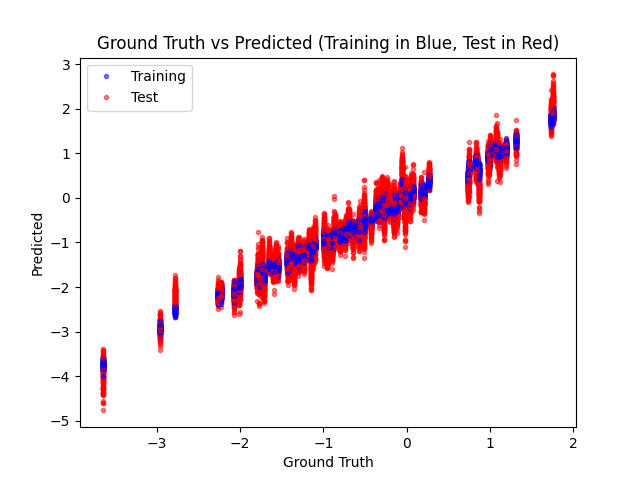
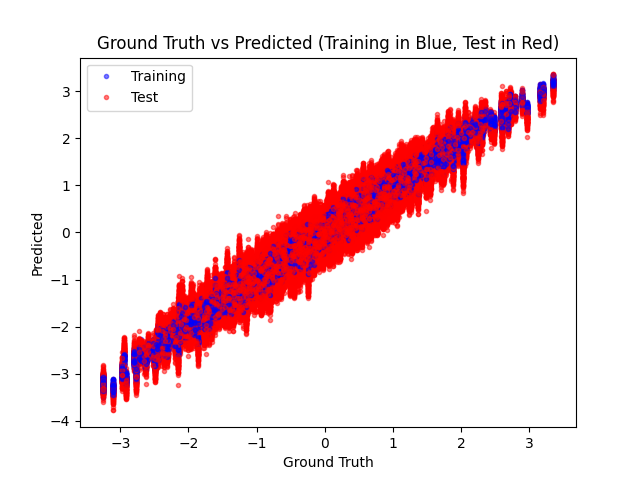
problem 1

diff --git a/temp.py b/temp.py
@@ -1,0 +1,43 @@
+import numpy as np
+import pandas as pd
+import matplotlib.pyplot as plt
+from sklearn.linear_model import Ridge
+def ridge(x, y, xT, yT, a):
+    ridge_model = Ridge(alpha=a, fit_intercept=False)  
+    ridge_model.fit(x, y)
+    y_pred = ridge_model.predict(xT)
+    
+    # Calculate RSS 
+    rss_test = np.sum((yT - y_pred) ** 2)
+    
+    # Calculate TSS 
+    tss_test = np.sum((yT - np.mean(yT)) ** 2)
+    
+    # Calculate R^2
+    r2_test = 1 - rss_test / tss_test
+    return r2_test
+    
+    
+# Load data from CSV files
+x = pd.read_csv('p1/x1.csv').values  # Ensure this is a NumPy array
+y = pd.read_csv('p1/y1.csv').values
+x_test = pd.read_csv('p1/x2.csv').values
+y_test = pd.read_csv('p1/y2.csv').values
+
+
+alpha_values = np.logspace(-3, 3, 100)
+R2List = []
+for alpha in alpha_values:
+    r2_value = ridge(x, y, x_test, y_test, alpha)
+    R2List.append(round(r2_value, 4))  #
+
+print("Alpha values:", alpha_values)
+print("R^2 values:", R2List)
+
+plt.figure(figsize=(10, 6))
+plt.plot(alpha_values, R2List, marker='o', linestyle='-', color='b')
+plt.xscale('log')  
+plt.xlabel("Alpha (Regularization Strength)")
+plt.ylabel("R^2 Score on Test Data")
+plt.title("R^2 Score vs Alpha in Ridge Regression")
+plt.savefig('ridge.png')

diff --git a/ridge.py b/ridge.py
@@ -2,7 +2,7 @@ import numpy as np
 import pandas as pd
 import matplotlib.pyplot as plt
 from sklearn.linear_model import Ridge
-
+def ridge()
 # Load data from CSV files
 x = pd.read_csv('p1/x1.csv').values  # Ensure this is a NumPy array
 y = pd.read_csv('p1/y1.csv').values
@@ -11,22 +11,15 @@ y_test = pd.read_csv('p1/y2.csv').values
 
 
 # Define the regularization strength (alpha)
-alpha = 1.0  # Adjust alpha as needed (higher = more regularization)
+alpha = 1.0  
 
 # Perform Ridge Regression
-ridge_model = Ridge(alpha=alpha, fit_intercept=False)  # Set fit_intercept=False since we added the intercept manually
+ridge_model = Ridge(alpha=alpha, fit_intercept=False)  
 ridge_model.fit(x, y)
 
 # Get the Ridge coefficients
-beta = ridge_model.coef_.ravel()  # Flatten for easier display
-print("Set of coefficients:", beta)
-
-# Predict on training data to calculate R^2 on training set
-y_pred_train = ridge_model.predict(x)
-rss_train = np.sum((y - y_pred_train) ** 2)
-tss_train = np.sum((y - np.mean(y)) ** 2)
-r2_train = 1 - rss_train / tss_train
-print("R^2 on training data:", r2_train)
+beta = ridge_model.coef_  
+print("Set of coefficients:", beta.flatten())
 
 # Predict on test data
 y_pred_test = ridge_model.predict(x_test)

diff --git a/Bromley_Quinn_P1.py b/Bromley_Quinn_P1.py
@@ -1,0 +1,28 @@
+import pandas as pd
+import matplotlib.pyplot as plt
+from sklearn import linear_model
+
+xValsTrain = pd.read_csv('p1/x1.csv')
+
+yValsTrain = pd.read_csv('p1/y1.csv')
+
+reg = linear_model.LinearRegression()
+
+# Create and fit the linear regression model
+reg = linear_model.LinearRegression()
+reg.fit([[0, 0], [1, 1], [2, 2]], [0, 1, 2])
+
+# Plot the data and the regression line
+plt.scatter([0, 1, 2], [0, 1, 2], color='blue', label='Data points')
+plt.plot([0, 1, 2], reg.predict([[0, 0], [1, 1], [2, 2]]), color='red', label='Regression line')
+
+# Add labels and title
+plt.xlabel('X')
+plt.ylabel('Y')
+plt.title('Linear Regression')
+plt.legend()
+
+# Save the figure as an image (e.g., PNG)
+image_path = "linear_regression_plot.png"
+plt.savefig(image_path)
+

diff --git a/test.py b/test.py
@@ -10,16 +10,9 @@ y_test = pd.read_csv('p1/y2.csv').values
 
 
 # Calculate the pseudo-inverse solution
-# beta = (X^T X)^(-1) X^T y
 beta = np.linalg.inv(x.T @ x) @ x.T @ y
-print("Set of coefficients:", beta.ravel())  # Flatten for a cleaner print format
+print("Set of coefficients:", beta.flatten())  
 
-# Predict on training data to calculate R^2 on training set
-y_pred_train = x @ beta
-rss_train = np.sum((y - y_pred_train) ** 2)
-tss_train = np.sum((y - np.mean(y)) ** 2)
-r2_train = 1 - rss_train / tss_train
-print("R^2 on training data:", r2_train)
 
 # Predict on test data
 y_pred_test = x_test @ beta

diff --git a/Bromley_Quinn_p1_b.py b/Bromley_Quinn_p1_b.py
@@ -3,9 +3,9 @@ import pandas as pd
 import matplotlib.pyplot as plt
 
 # Parameters
-n = 100     # Number of examples
+n = 2000     # Number of examples
 d = 5       # Number of predictors
-dd = 20     # Number of noisy channels
+dd = 400     # Number of noisy channels
 std = 0.2   # Standard deviation of additive noise
 
 # Generate predictors
